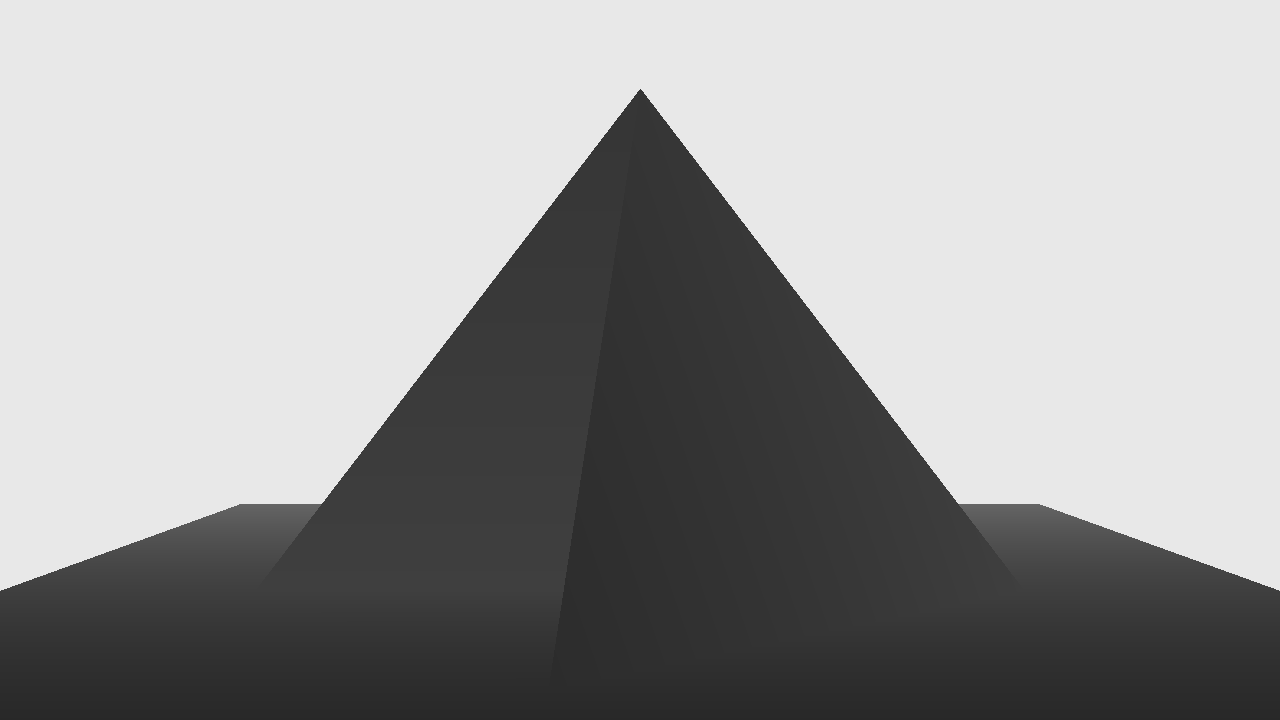
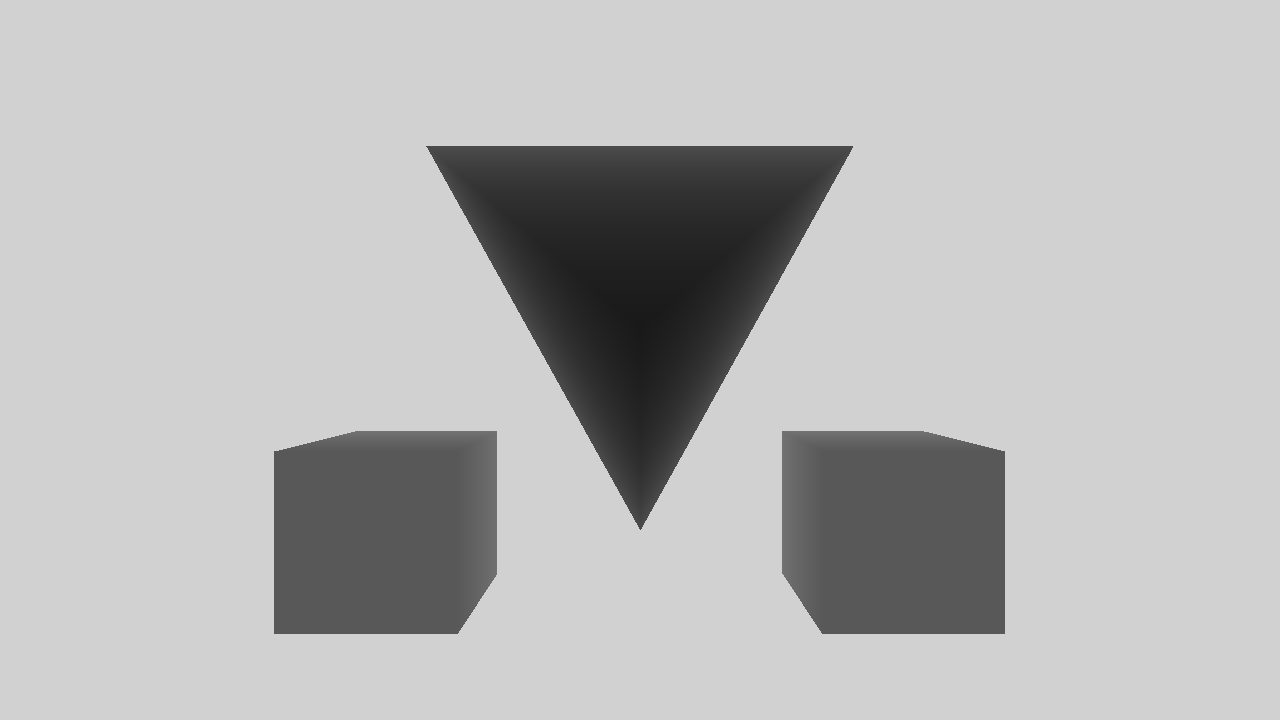
Added basic .obj parser and thus can import meshes now.

diff --git a/src/obj.c b/src/obj.c
@@ -1,0 +1,50 @@
+#include <stdio.h>
+#include <stdlib.h>
+#include "types.h"
+
+void parse_obj(const char *filename, mesh3 *mesh)
+{
+  FILE *fp = fopen(filename, "r");
+  size_t v_capacity = 0;
+  size_t t_capacity = 0;
+  vec3 *vertices = NULL;
+  size_t v_count = 0;
+  tri3 *tris = NULL;
+  size_t t_count = 0;
+  char line[256];
+  while (fgets(line, sizeof(line), fp))
+  {
+    if (line[0] == 'v' && line[1] == ' ')
+    {
+      if (v_count == v_capacity)
+      {
+        v_capacity = v_capacity ? v_capacity * 2 : 128;
+        vertices = realloc(vertices, v_capacity * sizeof(vec3));
+      }
+      sscanf(line, "v %f %f %f", &vertices[v_count].x, &vertices[v_count].y, &vertices[v_count].z);
+      v_count++;
+    }
+
+    if (line[0] == 'f' && line[1] == ' ')
+    {
+      if (t_count == t_capacity)
+      {
+        t_capacity = t_capacity ? t_capacity * 2 : 128;
+        tris = realloc(tris, t_capacity * sizeof(tri3));
+      }
+      int a, b, c;
+      sscanf(line, "f %d %d %d", &a, &b, &c);
+      tris[t_count].v[0] = vertices[a - 1];
+      tris[t_count].v[1] = vertices[b - 1];
+      tris[t_count].v[2] = vertices[c - 1];
+
+      t_count++;
+    }
+  }
+  mesh->count = t_count;
+  mesh->tris = malloc(mesh->count*sizeof(tri3));
+  for (size_t i = 0; i < mesh->count; i++)
+  {
+    mesh->tris[i] = tris[i];
+  }
+}

diff --git a/src/main.c b/src/main.c
@@ -11,43 +11,23 @@
 #include "vecmath.h"
 #include "camera.h"
 #include "config.h"
-
+#include "obj.h"
 int main()
 {
   framebuffer fb;
   init(&fb);
   camera camera;
   initCam(&camera);
-  fractal_fill(&fb, HSV(212, 0.4f, 1.00f));
-  vec3 light = {1.0f, -2.0f, 2.0f};
-
-  //   tri3 base[] = {
-  //       {{{-5.0f, -1.8f, 3.0f}, {-5.0f, -1.8f, 8.0f}, {5.0f, -1.8f, 3.0f}}},
-  //       {{{-5.0f, -1.8f, 8.0f}, {5.0f, -1.8f, 8.0f}, {5.0f, -1.8f, 3.0f}}}};
-  //   fillTri3d(&fb, &camera, base[0], HSV(220, 0.4f, 0.6f));
-  //   fillTri3d(&fb, &camera, base[1], HSV(220, 0.4f, 0.6f));
-
-  //   tri3 tris[] = {
-  //       {{{3.0f, -1.8f, 5.0f}, {0.0f, 1.8f, 4.25f}, {-3.0f, -1.8f, 5.0f}}},
-  //       {{{-0.5f, -1.8f, 3.5f}, {0.0f, 1.8f, 4.25f}, {3.0f, -1.8f, 5.0f}}},
-  //       {{{-3.0f, -1.8f, 5.0f}, {0.0f, 1.8f, 4.25f}, {-0.5f, -1.8f, 3.5f}}},
-  //       {{{-0.5f, -1.8f, 3.5f}, {3.0f, -1.8f, 5.0f}, {-3.0f, -1.8f, 5.0f}}}};
-  //   mesh3 tetrahedron = {.tris = tris};
-  //   epic_3D_shit(&fb, &camera, tetrahedron, light);
-  vec3 A = {-1.0f, 1.0f, 3.0f};
-  vec3 B = {1.0f, 1.0f, 3.0f};
-  vec3 C = {0.0f, -0.8f, 3.0f};
-  vec3 D = {0.0f, 0.05f, 1.0f};
-  tri3 tris[] = {
-      {A, B, D},
-      {C, D, B},
-      {A, D, C},
-      {C, B, A},
-  };
-  mesh3 tetrahedron = {
-      .tris = tris,
-      .count = sizeof(tris) / sizeof(tris[0])};
-  drawMesh3d(&fb, &camera, tetrahedron, light);
+  fractal_fill(&fb, HSV(340, 0.1f, 1.00f));
+  vec3 light = {-1.0f, -1.0f, 2.0f};
+  mesh3 tetrahedron;
+  parse_obj("assets/tetra.obj", &tetrahedron);
+  drawMesh3d(&fb, &camera, tetrahedron, light, GREEN);
+  mesh3 cube;
+  parse_obj("assets/cube.obj", &cube);
+  drawMesh3d(&fb, &camera, cube, light, RED);
+  parse_obj("assets/cube_mirror.obj", &cube);
+  drawMesh3d(&fb, &camera, cube, light, BLUE);
   render(&fb);
   render_depth(&fb);
 }

diff --git a/src/tests.c b/src/tests.c
@@ -59,6 +59,19 @@ void blue_shit(framebuffer *fb, mesh2 mesh)
   drawTri2d(fb, mesh.tris[2], BLACK);
   fillTri2d(fb, mesh.tris[2], RGB(0, 59, 180));
 }
+  //   tri3 base[] = {
+  //       {{{-5.0f, -1.8f, 3.0f}, {-5.0f, -1.8f, 8.0f}, {5.0f, -1.8f, 3.0f}}},
+  //       {{{-5.0f, -1.8f, 8.0f}, {5.0f, -1.8f, 8.0f}, {5.0f, -1.8f, 3.0f}}}};
+  //   fillTri3d(&fb, &camera, base[0], HSV(220, 0.4f, 0.6f));
+  //   fillTri3d(&fb, &camera, base[1], HSV(220, 0.4f, 0.6f));
+
+  //   tri3 tris[] = {
+  //       {{{3.0f, -1.8f, 5.0f}, {0.0f, 1.8f, 4.25f}, {-3.0f, -1.8f, 5.0f}}},
+  //       {{{-0.5f, -1.8f, 3.5f}, {0.0f, 1.8f, 4.25f}, {3.0f, -1.8f, 5.0f}}},
+  //       {{{-3.0f, -1.8f, 5.0f}, {0.0f, 1.8f, 4.25f}, {-0.5f, -1.8f, 3.5f}}},
+  //       {{{-0.5f, -1.8f, 3.5f}, {3.0f, -1.8f, 5.0f}, {-3.0f, -1.8f, 5.0f}}}};
+  //   mesh3 tetrahedron = {.tris = tris};
+  //   epic_3D_shit(&fb, &camera, tetrahedron, light);
 
 void epic_3D_shit(framebuffer *fb, camera *camera, mesh3 mesh, vec3 light)
 {

diff --git a/src/draw.c b/src/draw.c
@@ -283,7 +283,7 @@ void fillTri3d(framebuffer *fb, camera *cam, tri3 tri, uint32_t color)
   }
 }
 
-void drawMesh3d(framebuffer *fb, camera *cam, mesh3 mesh, vec3 light)
+void drawMesh3d(framebuffer *fb, camera *cam, mesh3 mesh, vec3 light, uint32_t color)
 {
   for (size_t i = 0; i < mesh.count; i++)
   {
@@ -298,6 +298,9 @@ void drawMesh3d(framebuffer *fb, camera *cam, mesh3 mesh, vec3 light)
     printf("light %f\n", intensity);
     intensity = (intensity < 0) ? 0.0f : intensity;
     printf("light %f\n", intensity);
-    fillTri3d(fb, cam, mesh.tris[i], HSV(0.0f, 0.0f, 1.0f * intensity));
+    uint8_t red = (color >> 16) & 0xFF;
+    uint8_t green = (color >> 8) & 0xFF;
+    uint8_t blue = color & 0xFF;
+    fillTri3d(fb, cam, mesh.tris[i], RGB(red * intensity, green * intensity, blue * intensity));
   }
 }

diff --git a/include/obj.h b/include/obj.h
@@ -1,0 +1,5 @@
+#ifndef OBJ_H
+#define OBJ_H
+#include "types.h"
+void parse_obj(const char *filename, mesh3 *mesh);
+#endif

diff --git a/include/draw.h b/include/draw.h
@@ -14,6 +14,6 @@ void drawTri3d(framebuffer *fb, camera *cam, tri3 tri, uint32_t color);
 
 void fillTri3d(framebuffer *fb, camera *cam, tri3 tri, uint32_t color);
 
-void drawMesh3d(framebuffer *fb, camera *cam, mesh3 mesh, vec3 light);
+void drawMesh3d(framebuffer *fb, camera *cam, mesh3 mesh, vec3 light, uint32_t color);
 
 #endif

diff --git a/src/framebuffer.c b/src/framebuffer.c
@@ -54,7 +54,7 @@ void render_depth(framebuffer *fb)
   for (size_t i = 0; i < fb->height * fb->width; i++)
   {
     float linearDepth = (2.0 * FNEAR * FFAR) / (FFAR + FNEAR - fb->depth[i] * (FFAR - FNEAR));
-    uint8_t depth = (linearDepth/40) * 255;
+    uint8_t depth = (linearDepth/20) * 255;
     uint8_t buffer[3] = {depth, depth, depth};
     fwrite(buffer, sizeof(uint8_t), 3, fp);
   }